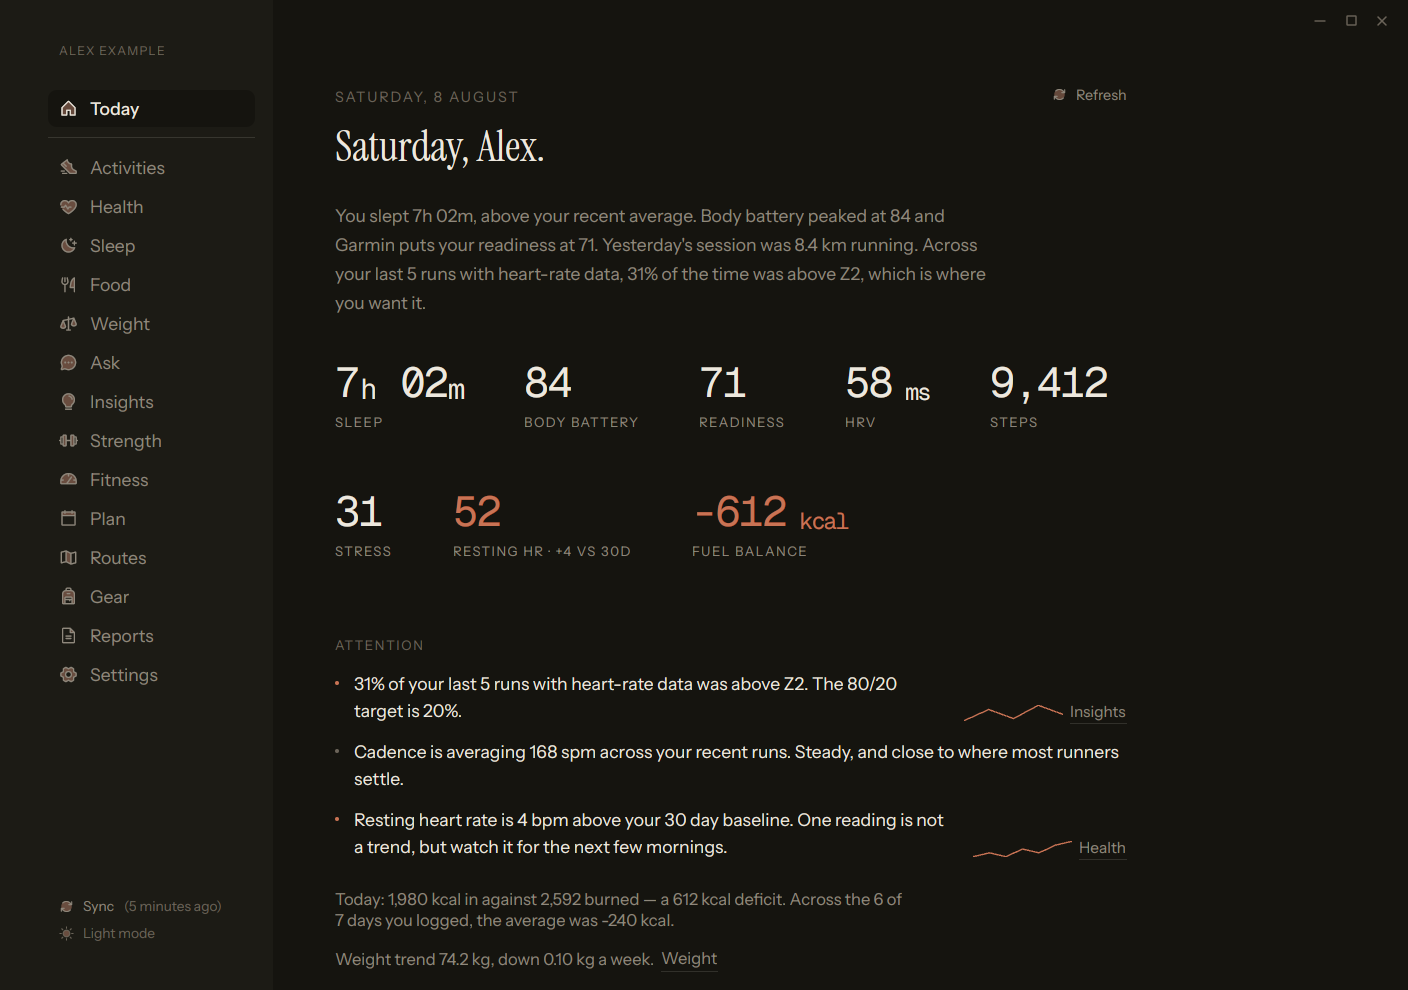
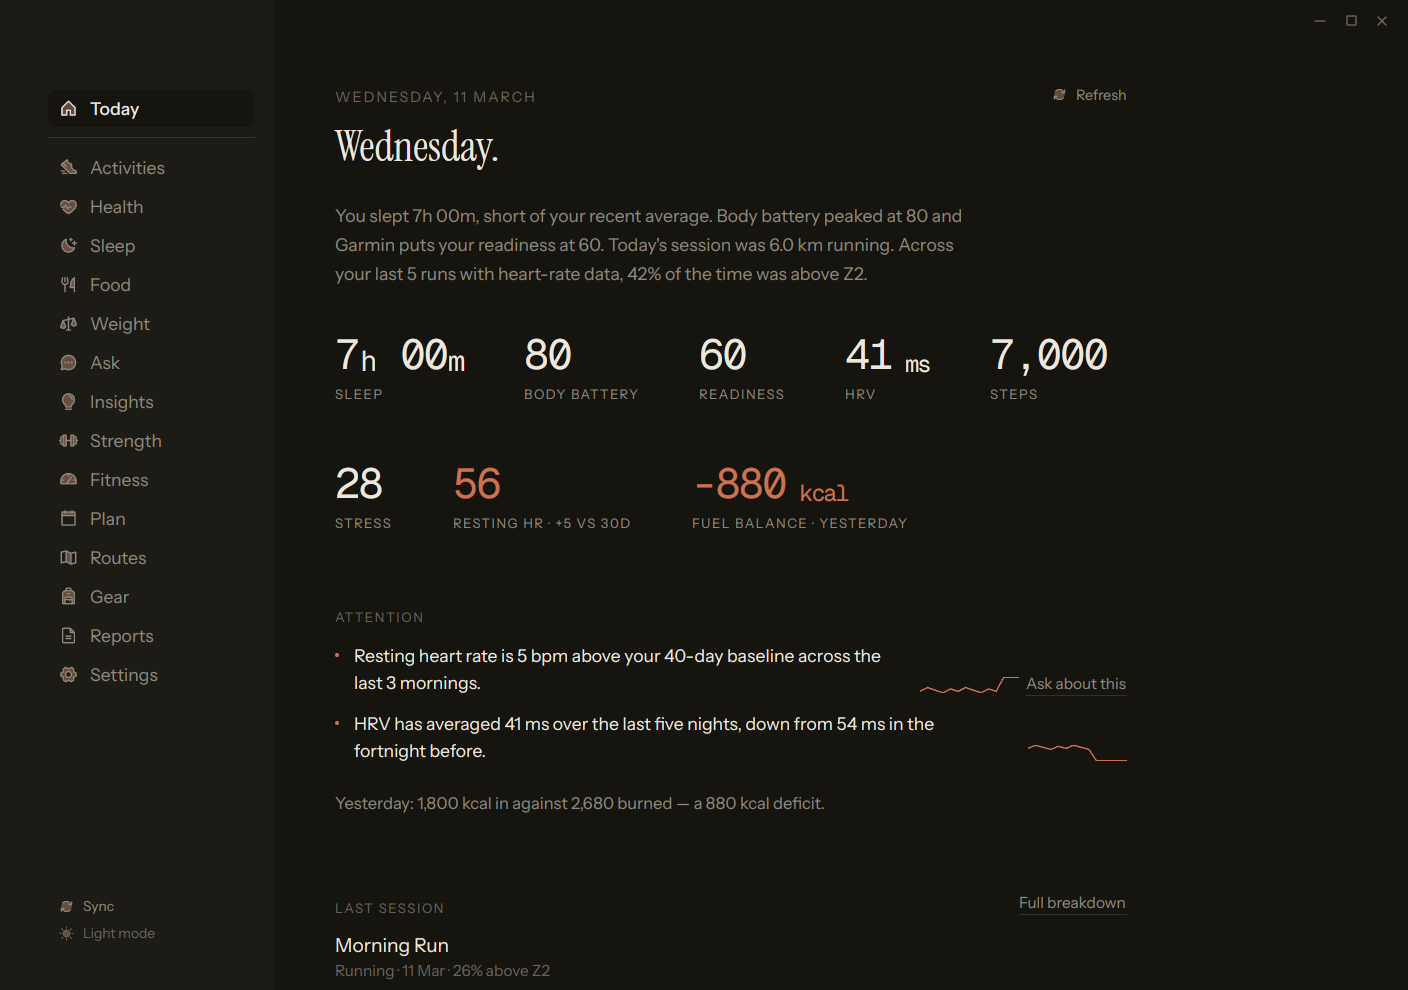
fix(desktop): default to the API, smooth notches only
Smooth only whole-notch line deltas. The X11 backend sends touchpad
deltas as fractional lines, and the spring made them lag.

Make the sample persona of garmin-api the default source and delete
the hand-written fixture. Fail on --persona with no value, and on
--persona with --db. Take the drift noun from the API. Remove the
pointer and hover style from Refresh, Sync and the links, which do
nothing yet. Raise opt-level to 3 for the crates that draw each frame.

diff --git a/apps/desktop/src/data.rs b/apps/desktop/src/data.rs
@@ -2,17 +2,13 @@
 //!
 //! [`load_today`] is the only function the rest of the app calls. The view
 //! model below is the formatted form that the screen draws. It comes from one
-//! of two sources: the synthetic sample fixture, or `garmin-api` run against a
-//! copy of the cache (`--db <path>`).
+//! of two sources: a made-up `garmin-api` persona (`sample` by default), or
+//! `garmin-api` run against a copy of the cache (`--db <path>`).
 
 use std::path::PathBuf;
 
 use anyhow::{ensure, Context, Result};
 use chrono::NaiveDate;
-use serde::Deserialize;
-
-/// The synthetic sample. It holds no real data.
-const SAMPLE: &str = include_str!("../fixtures/today.sample.json");
 
 /// The made-up users of `garmin-api`, in the form that the API returns.
 pub const PERSONAS: [(&str, &str); 5] = [
@@ -40,8 +36,8 @@ pub const PERSONAS: [(&str, &str); 5] = [
 
 /// Where the Today view comes from.
 pub enum Source {
-    Sample,
-    /// One of the `garmin-api` personas, by name, such as `golfer`.
+    /// One of the `garmin-api` personas, by name, such as `golfer`. The
+    /// default is `sample`. The persona files hold made-up data only.
     Persona(String),
     /// A copy of the cache. Never point this at the live file: opening a
     /// database runs migrations.
@@ -53,45 +49,41 @@ pub enum Source {
 }
 
 /// A piece of a metric value. A unit draws smaller, as in "6h 24m".
-#[derive(Debug, Clone, Deserialize, PartialEq)]
+#[derive(Debug, Clone, PartialEq)]
 pub struct Part {
     pub text: String,
-    #[serde(default)]
     pub unit: bool,
 }
 
-#[derive(Debug, Clone, Deserialize, PartialEq)]
+#[derive(Debug, Clone, PartialEq)]
 pub struct Metric {
     pub label: String,
     pub value: Vec<Part>,
     /// Only a worse than usual figure takes the accent colour.
-    #[serde(default)]
     pub accent: bool,
 }
 
-#[derive(Debug, Clone, Deserialize, PartialEq)]
+#[derive(Debug, Clone, PartialEq)]
 pub struct Link {
     pub label: String,
 }
 
-#[derive(Debug, Clone, Deserialize, PartialEq)]
+#[derive(Debug, Clone, PartialEq)]
 pub struct Attention {
     pub text: String,
-    #[serde(default)]
     pub accent: bool,
     /// A missing day is `None`, and the chart leaves a gap there.
-    #[serde(default)]
     pub spark: Vec<Option<f32>>,
     pub link: Option<Link>,
 }
 
-#[derive(Debug, Clone, Deserialize, PartialEq)]
+#[derive(Debug, Clone, PartialEq)]
 pub struct Stat {
     pub label: String,
     pub value: String,
 }
 
-#[derive(Debug, Clone, Deserialize, PartialEq)]
+#[derive(Debug, Clone, PartialEq)]
 pub struct Session {
     pub name: String,
     pub detail: String,
@@ -99,24 +91,22 @@ pub struct Session {
     /// zone verdict does not suit, or one with no heart rate data.
     pub zones: Option<[f32; 5]>,
     /// Said in place of the zone bar when the verdict suits but no data exists.
-    #[serde(default)]
     pub zone_note: Option<String>,
     /// Only the figures that exist. A session with no distance has no distance tile.
     pub stats: Vec<Stat>,
 }
 
-#[derive(Debug, Clone, Deserialize, PartialEq)]
+#[derive(Debug, Clone, PartialEq)]
 pub struct DriftRun {
     pub date: String,
     /// Percent of the run above Z2.
     pub above_z2: f32,
 }
 
-#[derive(Debug, Clone, Deserialize, PartialEq)]
+#[derive(Debug, Clone, PartialEq)]
 pub struct Drift {
-    /// What the bars count, such as "runs". It comes from the view model, so
-    /// the screen has no sport words of its own.
-    #[serde(default = "sessions")]
+    /// What the bars count, such as "runs". It comes from `ZoneDrift.noun` in
+    /// the API, so the screen has no sport words of its own.
     pub noun: String,
     pub target: f32,
     pub summary: String,
@@ -124,11 +114,7 @@ pub struct Drift {
     pub runs: Vec<DriftRun>,
 }
 
-fn sessions() -> String {
-    "sessions".into()
-}
-
-#[derive(Debug, Clone, Deserialize, PartialEq)]
+#[derive(Debug, Clone, PartialEq)]
 pub struct Week {
     /// Active minutes for each day. Every sport has minutes.
     pub minutes: Vec<f32>,
@@ -140,30 +126,14 @@ pub struct Week {
 }
 
 /// The fuel balance, with the sentence under it.
-#[derive(Debug, Clone, Deserialize, PartialEq)]
+#[derive(Debug, Clone, PartialEq)]
 pub struct Fuel {
     /// The balance as a tile. `None` when no day has a balance.
     pub tile: Option<Metric>,
     pub note: String,
 }
 
-/// The sections in the order that the API sends them.
-pub const DEFAULT_SECTIONS: [&str; 7] = [
-    "health_tiles",
-    "attention",
-    "fuel",
-    "weight",
-    "last_session",
-    "week",
-    "zone_drift",
-];
-
-fn default_sections() -> Vec<String> {
-    DEFAULT_SECTIONS.iter().map(|s| s.to_string()).collect()
-}
-
-#[derive(Debug, Clone, Deserialize, PartialEq)]
-#[serde(rename_all = "camelCase")]
+#[derive(Debug, Clone, PartialEq)]
 pub struct Today {
     /// The athlete's name, for the top of the sidebar.
     pub who: Option<String>,
@@ -172,11 +142,9 @@ pub struct Today {
     pub title: String,
     pub lede: String,
     /// True when the cache holds nothing. The screen then says so.
-    #[serde(default)]
     pub empty: bool,
     /// The section keys in drawing order. A key that the screen does not know,
     /// or one with no data, is skipped.
-    #[serde(default = "default_sections")]
     pub sections: Vec<String>,
     /// The health tiles that have a figure. A user without the sensor gets no tile.
     pub metrics: Vec<Metric>,
@@ -188,12 +156,9 @@ pub struct Today {
     pub week: Option<Week>,
 }
 
-/// The Today view. The single switch point between the fixture and the API.
+/// The Today view. The single switch point between the personas and the cache.
 pub fn load_today(source: &Source) -> Result<Today> {
     match source {
-        Source::Sample => {
-            serde_json::from_str(SAMPLE).context("the sample Today fixture does not parse")
-        }
         Source::Persona(name) => {
             let (_, json) = PERSONAS
                 .iter()
@@ -230,15 +195,16 @@ mod tests {
     }
 
     #[test]
-    fn the_sample_fixture_parses_and_is_internally_consistent() {
-        let today = load_today(&Source::Sample).unwrap();
-        assert_eq!(today.metrics.len(), 7);
+    fn the_default_persona_parses_and_is_internally_consistent() {
+        let today = load_today(&Source::Persona("sample".into())).unwrap();
+        assert!(today.metrics.len() >= 5);
         assert!(today.fuel.as_ref().unwrap().tile.is_some());
         let week = today.week.as_ref().unwrap();
         assert_eq!(week.minutes.len(), week.axis.len());
         let zones: f32 = today.last_session.unwrap().zones.unwrap().iter().sum();
         assert!((zones - 100.0).abs() < 0.5, "zones sum to {zones}");
         let drift = today.zone_drift.unwrap();
+        assert_eq!(drift.noun, "runs");
         assert!(drift
             .runs
             .iter()

diff --git a/apps/desktop/src/scroll.rs b/apps/desktop/src/scroll.rs
@@ -1,10 +1,16 @@
 //! A scroll container with smooth wheel notches.
 //!
-//! A mouse wheel sends whole lines, so the page would jump. The container keeps
-//! a target offset and moves the real offset toward it with a critically damped
-//! spring. A new notch moves the target, so fast notches add up and the motion
-//! stays continuous. A touchpad sends exact pixels, with kinetic momentum where
-//! gpui makes it. Those pass through to gpui untouched.
+//! A mouse wheel sends whole notches, so the page would jump. The container
+//! keeps a target offset and moves the real offset toward it with a critically
+//! damped spring. A new notch moves the target, so fast notches add up and the
+//! motion stays continuous.
+//!
+//! Only a whole notch is smoothed: a line delta that is a multiple of
+//! `LINES_PER_NOTCH`. Everything else passes through to gpui untouched. That is
+//! a touchpad on Wayland (pixel deltas, with kinetic momentum where gpui makes
+//! it), a touchpad on X11 (gpui sends it as fractional lines), and a wheel with
+//! fine steps. Such a wheel scrolls without easing. An X11 touchpad delta that is
+//! exactly a whole notch would be eased, which is rare.
 
 use std::cell::RefCell;
 use std::rc::Rc;
@@ -22,8 +28,14 @@ const NOTCH_PX: f32 = 80.0;
 
 /// gpui sends 3 lines for one notch on Linux and, by default, on Windows
 /// (`SCROLL_LINES` in `gpui_ce_linux`). macOS sends about 1 line, so a notch is
-/// shorter there.
-const LINE_PX: f32 = NOTCH_PX / 3.0;
+/// shorter there and is not smoothed: it is not a multiple of this.
+const LINES_PER_NOTCH: f32 = 3.0;
+const LINE_PX: f32 = NOTCH_PX / LINES_PER_NOTCH;
+
+/// True for a delta of one or more whole notches.
+fn is_notch(lines: f32) -> bool {
+    lines != 0.0 && (lines.abs() / LINES_PER_NOTCH).fract() < 1e-3
+}
 
 /// Critically damped. About 230 ms from a notch to rest.
 const WHEEL: SpringConfig = SpringConfig {
@@ -125,7 +137,8 @@ impl SmoothScroll {
                         return;
                     };
                     if phase != DispatchPhase::Bubble
-                        || lines.y == 0.0
+                        || !is_notch(lines.y)
+                        || lines.x != 0.0
                         || !hitbox.should_handle_scroll(window)
                     {
                         return;
@@ -209,6 +222,12 @@ mod tests {
         let mut short = Inner::new(false);
         short.notch(-3.0, 0.0);
         assert_eq!(short.spring.target, 0.0);
+    }
+
+    #[test]
+    fn only_whole_notches_are_smoothed() {
+        assert!(is_notch(3.0) && is_notch(-3.0) && is_notch(-6.0));
+        assert!(!is_notch(0.0) && !is_notch(0.4) && !is_notch(-1.5) && !is_notch(4.0));
     }
 
     #[test]

diff --git a/apps/desktop/src/main.rs b/apps/desktop/src/main.rs
@@ -5,7 +5,7 @@
 //! `--palette <name>` picks the start palette and `--size <W>x<H>` sets the
 //! window size. `--db <copy>` reads a copy of the cache through `garmin-api`.
 //! `--date YYYY-MM-DD` sets the day for that read, for a demo on an old cache.
-//! `--persona golfer` shows a made-up user from `garmin-api`.
+//! `--persona golfer` shows a made-up user from `garmin-api`. The default is `sample`.
 
 mod chrome;
 mod data;
@@ -92,16 +92,15 @@ fn main() -> anyhow::Result<()> {
                 .with_context(|| format!("--date needs YYYY-MM-DD, got {d}"))
         })
         .transpose()?;
-    let source = match (db, date) {
-        (None, None) if option(&args, "--persona").is_some() => {
-            data::Source::Persona(option(&args, "--persona").unwrap_or_default())
-        }
-        (Some(path), date) => data::Source::Db {
+    let persona = required(&args, "--persona")?;
+    let source = match (db, date, persona) {
+        (Some(_), _, Some(_)) => anyhow::bail!("--persona and --db cannot go together"),
+        (Some(path), date, None) => data::Source::Db {
             path: path.into(),
             date,
         },
-        (None, Some(_)) => anyhow::bail!("--date needs --db"),
-        (None, None) => data::Source::Sample,
+        (None, Some(_), _) => anyhow::bail!("--date needs --db"),
+        (None, None, persona) => data::Source::Persona(persona.unwrap_or("sample".into())),
     };
     let today = data::load_today(&source)?;
 

diff --git a/apps/desktop/src/today.rs b/apps/desktop/src/today.rs
@@ -6,7 +6,7 @@
 use gpui::{div, prelude::*, px, relative, AnyElement, ColorExt as _, Div, Hsla};
 
 use crate::data::{Attention, Drift, Metric, Session, Today, Week};
-use crate::icons::{icon_hover, Icon};
+use crate::icons::{icon, Icon};
 use crate::theme::{Theme, FS_BASE, FS_CAPTION, FS_LG, FS_MD, FS_MICRO, FS_SMALL};
 use crate::ui::{
     axis_labels, block_in, body, bullet, ch, eyebrow, eyebrow_lg, h1, line_chart, metric,
@@ -32,21 +32,18 @@ fn section_eyebrow(text: &str, below: f32, t: &Theme) -> Div {
         .child(eyebrow(text.to_string(), t))
 }
 
-/// The refresh control at the right of the page header.
+/// The refresh control at the right of the page header. It has no pointer or
+/// hover style until it does something.
 fn refresh(t: &Theme) -> impl IntoElement {
-    let (mutd, fg) = (t.mutd, t.fg);
+    let mutd = t.mutd;
     div()
-        .id("refresh")
-        .group("refresh")
-        .cursor_pointer()
         .flex()
         .items_center()
         .gap(px(8.0))
         .font_family(SANS)
         .text_size(px(FS_CAPTION))
         .text_color(mutd)
-        .hover(move |s| s.text_color(fg))
-        .child(icon_hover(Icon::Sync, 14.0, t, mutd, Some(("refresh", fg))))
+        .child(icon(Icon::Sync, 14.0, t, mutd))
         .child("Refresh")
 }
 

diff --git a/apps/desktop/src/ui.rs b/apps/desktop/src/ui.rs
@@ -76,10 +76,10 @@ pub fn underlined(
     size: f32,
     t: &Theme,
 ) -> gpui::Stateful<Div> {
-    let (line, fg) = (t.line, t.fg);
+    // A link with no target yet has no pointer and no hover style.
+    let line = t.line;
     div()
         .id(id)
-        .cursor_pointer()
         .font_family(SANS)
         .text_size(px(size))
         .line_height(relative(LH_NORMAL))
@@ -88,7 +88,6 @@ pub fn underlined(
         .border_b_1()
         .border_color(line)
         .whitespace_nowrap()
-        .hover(move |s| s.text_color(fg))
         .child(text.into())
 }
 

diff --git a/apps/desktop/src/sidebar.rs b/apps/desktop/src/sidebar.rs
@@ -240,7 +240,6 @@ pub fn render<V: 'static>(
         .unwrap_or_default();
     let sync = quiet_row(t)
         .id("sync")
-        .cursor_pointer()
         .text_color(t.mutd)
         .child(icon(Icon::Sync, 14.0, t, t.mutd))
         .child("Sync")

diff --git a/apps/desktop/src/map.rs b/apps/desktop/src/map.rs
@@ -262,7 +262,7 @@ fn drift(view: &TodayView) -> Option<Drift> {
         )
     });
     Some(Drift {
-        noun: "sessions".to_string(),
+        noun: d.noun.clone(),
         target: d.target_pct as f32,
         summary,
         runs: d
